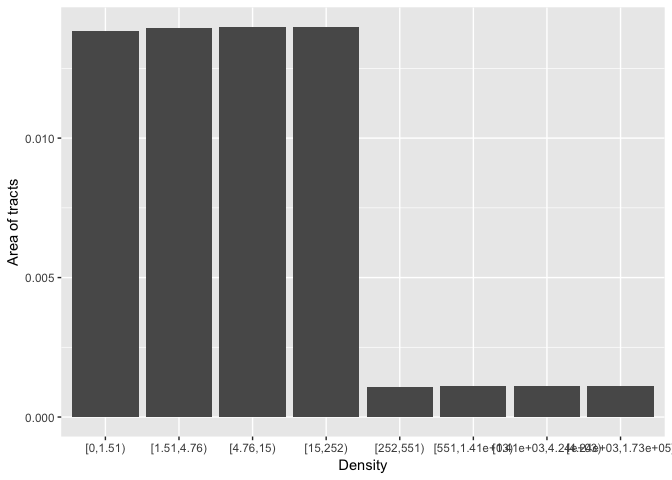
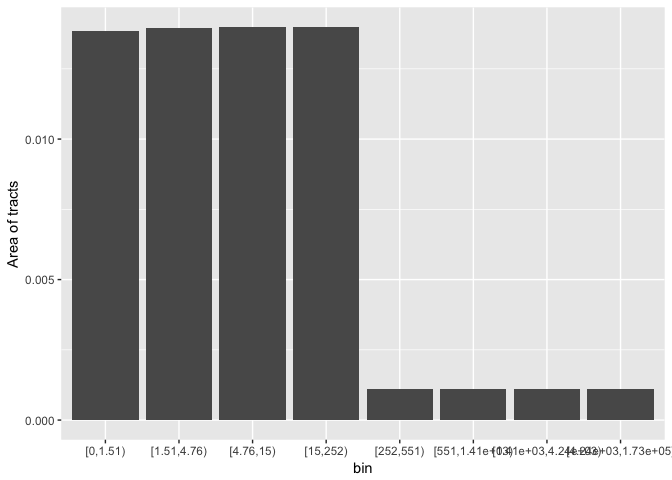
Study race and ethnicity bins

diff --git a/california/docs/design.md b/california/docs/design.md
@@ -1,7 +1,7 @@
 Map design
 ================
 Bill Behrman
-2017-10-20
+2017-10-25
 
 -   [Brewer 2000 US population density](#brewer-2000-us-population-density)
     -   [Average density](#average-density)
@@ -9,6 +9,7 @@ Bill Behrman
 -   [Bostock 2014 California population density](#bostock-2014-california-population-density)
 -   [Equal area breaks](#equal-area-breaks)
 -   [Average density divide](#average-density-divide)
+-   [Race and ethnicty bins](#race-and-ethnicty-bins)
 
 ``` r
 # Libraries
@@ -67,6 +68,31 @@ county_2000 <-
     area_land  = AREALAND,
     area_water = AREAWATR
   )
+
+# Group percentage of total
+group_pct <- function(group, total) {
+  as.integer(round(if_else(total == 0L, 0, 100 * (group / total))))
+}
+
+# Largest group
+largest_group <- function(
+  white_nonhispanic, hispanic, asian_nonhispanic, black_nonhispanic, other
+) {
+  if (all(white_nonhispanic == 0L, hispanic == 0L, asian_nonhispanic == 0L,
+          black_nonhispanic == 0L, other == 0L)) {
+    "uninhabited"
+  } else {
+    c(
+      white_nonhispanic = white_nonhispanic,
+      hispanic          = hispanic,
+      asian_nonhispanic = asian_nonhispanic,
+      black_nonhispanic = black_nonhispanic,
+      other             = other
+    ) %>% 
+      which.max(.) %>%
+      names()
+  }
+}
   
 # Get ACS population estimates
 get_population <- function(region) {
@@ -88,9 +114,29 @@ get_population <- function(region) {
       asian_nonhispanic = B03002_006E,
       black_nonhispanic = B03002_004E,
       other = population - white_nonhispanic - hispanic -
-                asian_nonhispanic - black_nonhispanic
+                asian_nonhispanic - black_nonhispanic,
+      white_pct    = group_pct(group = B03002_003E, total = B03001_001E),
+      hispanic_pct = group_pct(group = B03001_003E, total = B03001_001E),
+      asian_pct    = group_pct(group = B03002_006E, total = B03001_001E),
+      black_pct    = group_pct(group = B03002_004E, total = B03001_001E),
+      other_pct =
+        if_else(population == 0L, 0L,
+                pmax(0L, 100L - white_pct - hispanic_pct -
+                     asian_pct - black_pct)),
+      largest_group =
+        list(
+          white_nonhispanic = B03002_003E,
+          hispanic          = B03001_003E,
+          asian_nonhispanic = B03002_006E,
+          black_nonhispanic = B03002_004E,
+          other             = B03001_001E - B03002_003E - B03001_003E -
+                                B03002_006E - B03002_004E
+        ) %>%
+        pmap_chr(largest_group),
+      largest_pct =
+        pmax(white_pct, hispanic_pct, asian_pct, black_pct, other_pct)
     ) %>% 
-    select(geoid = GEOID, name = NAME, population:other) %>% 
+    select(geoid = GEOID, name = NAME, population:largest_pct) %>% 
     arrange(geoid)
 }
 
@@ -146,7 +192,7 @@ acs <-
           population, 
           area_land,
           density, 
-          white_nonhispanic:other,
+          white_nonhispanic:largest_pct,
           -geometry
         ) %>% 
         arrange(geoid)
@@ -217,7 +263,7 @@ v %>%
   labs(x = "Density", y = "Number of counties")
 ```
 
-![](design_files/figure-markdown_github-ascii_identifiers/unnamed-chunk-3-1.png)
+<img src="design_files/figure-markdown_github-ascii_identifiers/unnamed-chunk-3-1.png" width="100%" />
 
 ``` r
 v %>% 
@@ -226,7 +272,7 @@ v %>%
   labs(x = "Density", y = "Area of counties")
 ```
 
-![](design_files/figure-markdown_github-ascii_identifiers/unnamed-chunk-3-2.png)
+<img src="design_files/figure-markdown_github-ascii_identifiers/unnamed-chunk-3-2.png" width="100%" />
 
 Bostock 2014 California population density
 ==========================================
@@ -263,7 +309,7 @@ v2 %>%
   labs(x = "Density", y = "Number of tracts")
 ```
 
-![](design_files/figure-markdown_github-ascii_identifiers/unnamed-chunk-4-1.png)
+<img src="design_files/figure-markdown_github-ascii_identifiers/unnamed-chunk-4-1.png" width="100%" />
 
 ``` r
 v2 %>% 
@@ -272,7 +318,7 @@ v2 %>%
   labs(x = "Density", y = "Area of tracts")
 ```
 
-![](design_files/figure-markdown_github-ascii_identifiers/unnamed-chunk-4-2.png)
+<img src="design_files/figure-markdown_github-ascii_identifiers/unnamed-chunk-4-2.png" width="100%" />
 
 Equal area breaks
 =================
@@ -334,17 +380,18 @@ acs %>%
     ## # ... with 17 more rows
 
 ``` r
-break_areas <- function(df, breaks) {
+break_areas <- function(breaks, df, var) {
+  bin_var <- enquo(var)
   df %>% 
     mutate(
-    bin = cut(
-      density,
-      breaks = breaks,
-      include.lowest = TRUE,
-      right = FALSE,
-      ordered_result = TRUE
-    )
-  ) %>% 
+      bin = cut(
+        !!(bin_var),
+        breaks = breaks,
+        include.lowest = TRUE,
+        right = FALSE,
+        ordered_result = TRUE
+      )
+    ) %>% 
   group_by(bin) %>% 
   summarize(
     n = n(),
@@ -352,21 +399,21 @@ break_areas <- function(df, breaks) {
   ) %>% 
   ggplot(aes(bin, area)) + 
   geom_col() +
-  labs(x = "Density", y = "Area of tracts")
+  labs(y = "Area of tracts")
 }
 
 c(0, 1.51, 4.76, 15, CA_DENSITY, 551, 1410, 4240.5, max(v1$density)) %>% 
-  break_areas(v1, .)
+  break_areas(v1, density)
 ```
 
-![](design_files/figure-markdown_github-ascii_identifiers/unnamed-chunk-6-1.png)
+<img src="design_files/figure-markdown_github-ascii_identifiers/unnamed-chunk-6-1.png" width="100%" />
 
 ``` r
 c(0, 2, 5, 15, CA_DENSITY, 500, 1500, 4000, max(v1$density)) %>% 
-  break_areas(v1, .)
+  break_areas(v1, density)
 ```
 
-![](design_files/figure-markdown_github-ascii_identifiers/unnamed-chunk-6-2.png)
+<img src="design_files/figure-markdown_github-ascii_identifiers/unnamed-chunk-6-2.png" width="100%" />
 
 Average density divide
 ======================
@@ -398,3 +445,79 @@ acs %>%
     ## 4 252.5699 0.9278050     0.07060920
 
 California tracts below the average population density account for almost 93% of the land area but less than 7% of the population.
+
+Race and ethnicty bins
+======================
+
+``` r
+v1 %>% 
+  filter(largest_pct > 0) %>% 
+  pull(largest_pct) %>% 
+  summary()
+```
+
+    ##    Min. 1st Qu.  Median    Mean 3rd Qu.    Max. 
+    ##   23.00   50.00   62.00   62.78   75.00  100.00
+
+``` r
+v1 %>% 
+  filter(largest_pct > 0) %>%
+  filter(largest_pct == min(largest_pct)) %>% 
+  mutate(name = stringr::str_replace(name, "\\n", " ")) %>% 
+  knitr::kable()
+```
+
+| region | geoid       | name                                 |  population|  area\_land|   density|  white\_nonhispanic|  hispanic|  asian\_nonhispanic|  black\_nonhispanic|  other|  white\_pct|  hispanic\_pct|  asian\_pct|  black\_pct|  other\_pct| largest\_group     |  largest\_pct|
+|:-------|:------------|:-------------------------------------|-----------:|-----------:|---------:|-------------------:|---------:|-------------------:|-------------------:|------:|-----------:|--------------:|-----------:|-----------:|-----------:|:-------------------|-------------:|
+| tract  | 06037572400 | Census Tract 5724 Los Angeles County |        1218|   0.1801224|  6762.067|                 143|       276|                 276|                 280|    243|          12|             23|          23|          23|          19| black\_nonhispanic |            23|
+
+``` r
+v1 %>% 
+  filter(largest_pct > 0) %>% 
+  group_by(largest_group) %>% 
+  summarize_at(vars(largest_pct), funs(min, median, mean, max))
+```
+
+    ## # A tibble: 5 x 5
+    ##       largest_group   min median     mean   max
+    ##               <chr> <dbl>  <dbl>    <dbl> <dbl>
+    ## 1 asian_nonhispanic    26     50 51.95315    91
+    ## 2 black_nonhispanic    23     49 51.67910    89
+    ## 3          hispanic    24     64 65.27973   100
+    ## 4             other    46     50 59.66667    83
+    ## 5 white_nonhispanic    26     63 63.03070   100
+
+``` r
+seq(0L, 100L, 10L) %>% 
+  break_areas(v1, largest_pct)
+```
+
+<img src="design_files/figure-markdown_github-ascii_identifiers/unnamed-chunk-8-1.png" width="100%" />
+
+``` r
+seq(0L, 100L, 20L) %>% 
+  break_areas(v1, largest_pct)
+```
+
+<img src="design_files/figure-markdown_github-ascii_identifiers/unnamed-chunk-8-2.png" width="100%" />
+
+``` r
+v1 %>% 
+  mutate(
+    bin = cut(
+      largest_pct,
+      breaks = seq(0L, 100L, 20L),
+      include.lowest = TRUE,
+      right = FALSE,
+      ordered_result = TRUE
+    )
+  ) %>%
+  group_by(largest_group, bin) %>% 
+  summarize(area = sum(area_land) / SQ_METER_SQ_MILE) %>% 
+  ungroup() %>% 
+  ggplot(aes(bin, area)) +
+  geom_col() +
+  facet_grid(largest_group ~ .)
+```
+
+<img src="design_files/figure-markdown_github-ascii_identifiers/unnamed-chunk-8-3.png" width="100%" />
